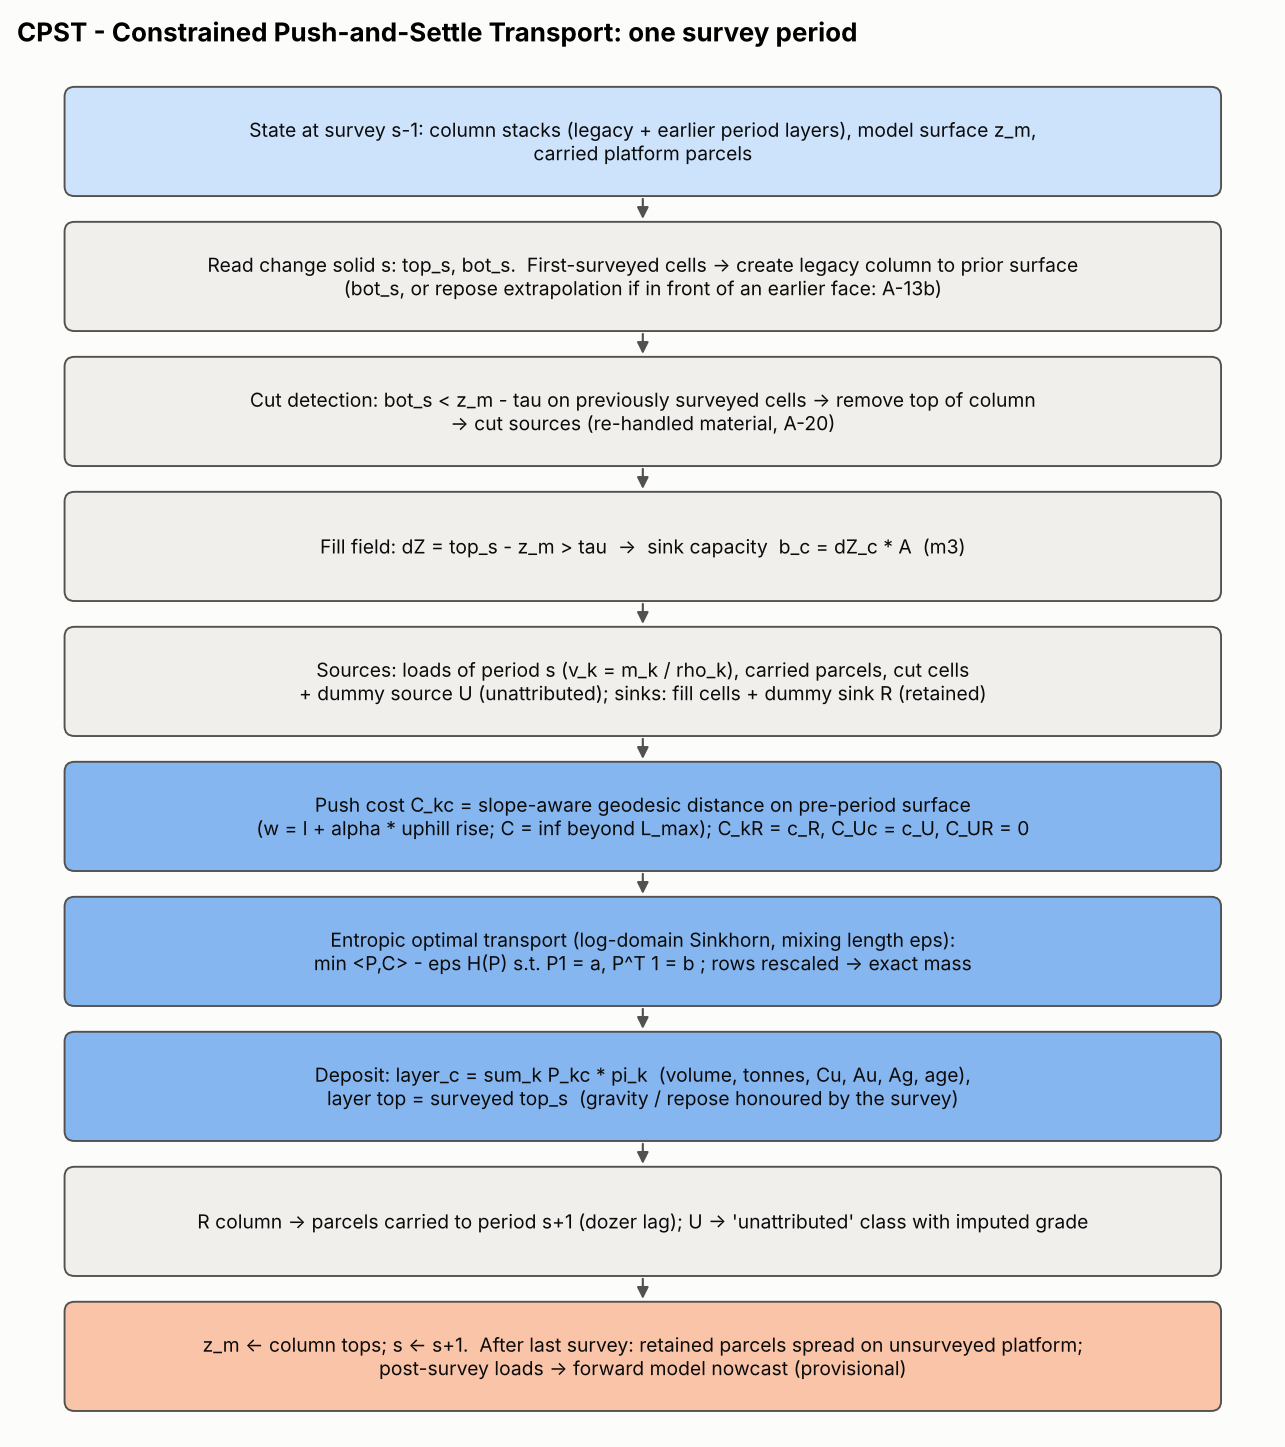
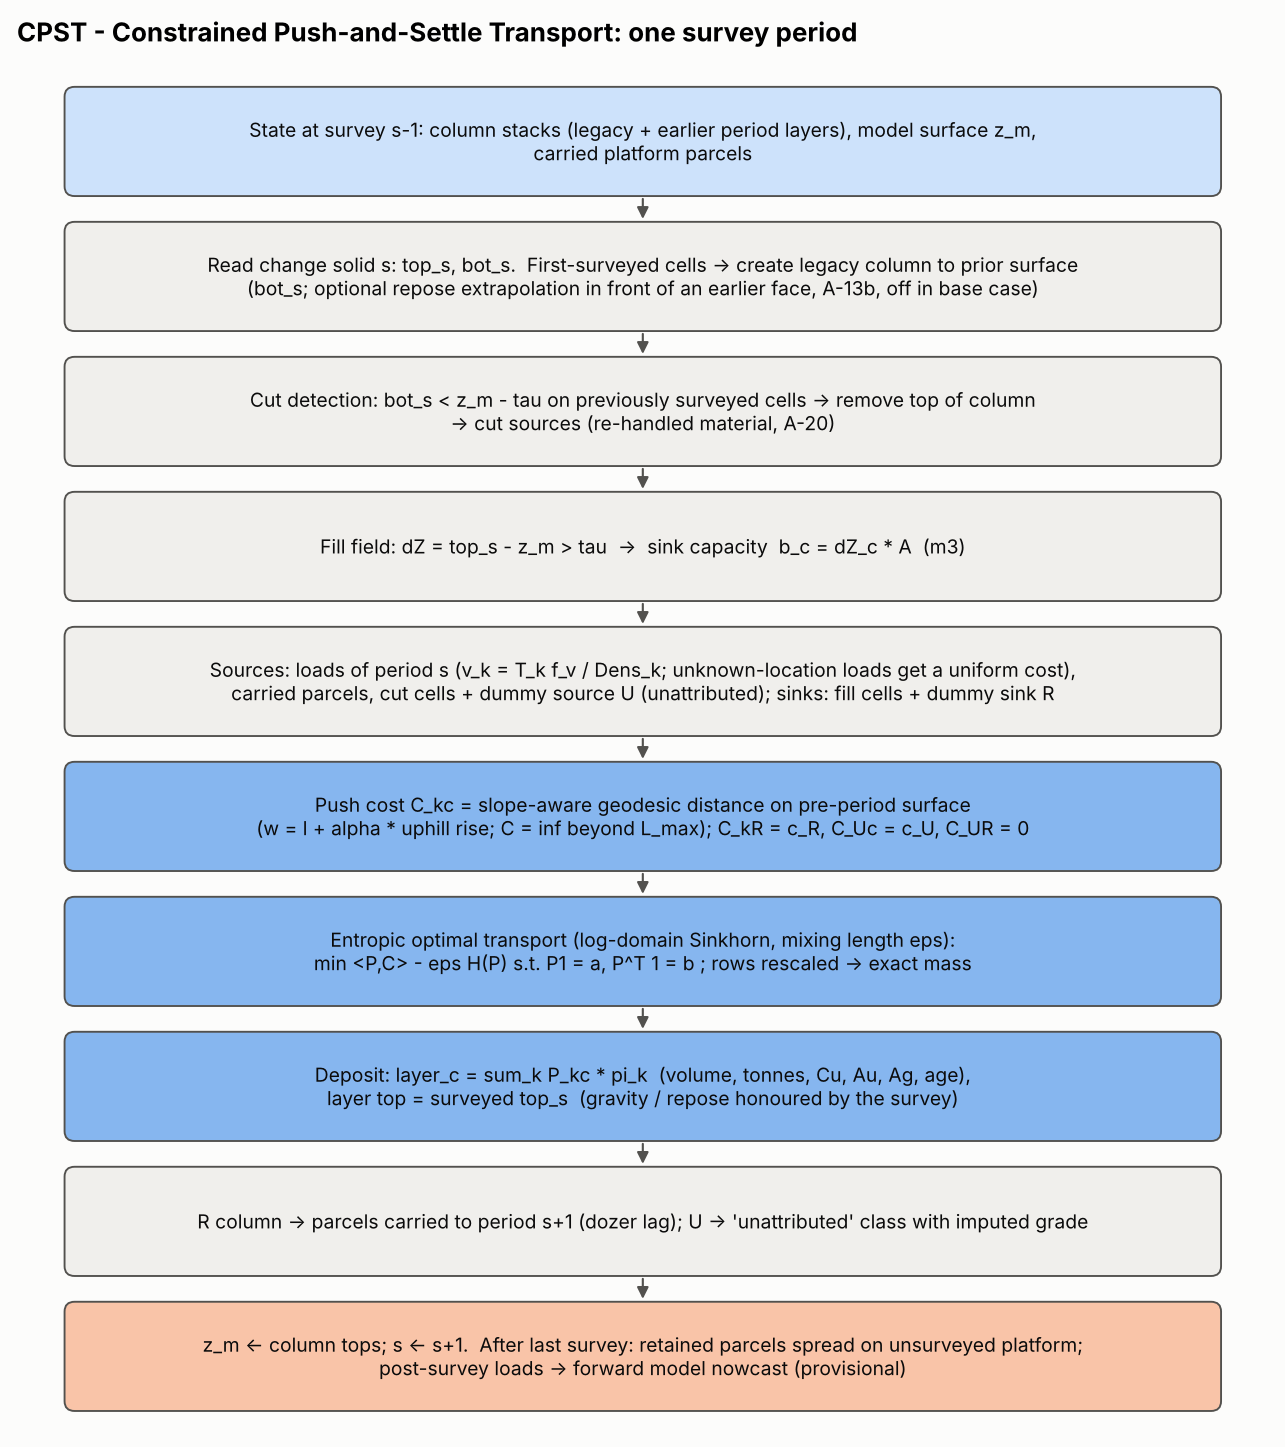
Survey-solid panel titles, daily-figure title and workflow/algorithm diagrams updated for v2.0
Claude-Session: https://claude.ai/code/session_01RcNCmFRcMyefnZh8wfeyRt

Changed region(s): [[0.1868, 0.4354, 0.8093, 0.4976], [0.249, 0.1866, 0.8093, 0.2177], [0.1868, 0.1866, 0.2179, 0.2177]]

diff --git a/tools/make_diagrams.py b/tools/make_diagrams.py
@@ -35,12 +35,12 @@ def workflow():
     box(ax, 1.6, 6.7, 2.6, 0.7, "FMS records (*.csv)\nnew files -> data/inbox", "data")
     box(ax, 1.6, 5.7, 2.6, 0.7, "Survey change solids (*.dxf)\nnew files -> data/inbox", "data")
     box(ax, 1.6, 4.6, 2.6, 0.8, "config/project.yaml\nmanual_interventions.csv\n(assumptions A-xx)", "dec")
-    box(ax, 4.7, 6.2, 2.6, 0.9, "1-2 IMPORT\nscan sources, SHA-256 registry,\nstandardise, rasterise (cache)", "proc")
-    box(ax, 4.7, 4.9, 2.6, 0.9, "3 QA/QC\n14 FMS flags, survey checks,\ncoverage, alignment", "proc")
-    box(ax, 4.7, 3.6, 2.6, 0.9, "4 PERIODS\nsurvey times, gap detection,\nloads -> periods", "proc")
+    box(ax, 4.7, 6.2, 2.6, 0.9, "1-2 IMPORT\nhashed raw store + ingest log,\ninterventions, rasterise (cache)", "proc")
+    box(ax, 4.7, 4.9, 2.6, 0.9, "3 QA/QC\n40-rule catalogue (record,\nsurvey file, dataset)", "proc")
+    box(ax, 4.7, 3.6, 2.6, 0.9, "4 INTERVALS + VOLUME\ncut-off scan (D+1 07:00), loads ->\nintervals, f_v calibration + hold-out", "proc")
     box(ax, 4.7, 2.2, 2.6, 1.1, "5 MATERIAL MOVEMENT (CPST)\ncuts, push cost, partial OT,\ndeposit layers, carry-over", "core")
     box(ax, 8.0, 6.2, 2.7, 0.9, "6-7 BLOCK MODEL\n5x5x2 m, tonnes, Cu, Au, Ag,\nmetal, class, provenance", "core")
-    box(ax, 8.0, 4.9, 2.7, 0.9, "8 UNCERTAINTY\nMonte Carlo (60) + tornado;\nP10/P50/P90, CV, confidence", "proc")
+    box(ax, 8.0, 4.9, 2.7, 0.9, "8 UNCERTAINTY\nMonte Carlo (60), tornado,\nvolume-gap scenarios", "proc")
     box(ax, 8.0, 3.6, 2.7, 0.9, "9 VALIDATION\nmass/metal balance, geometry,\nforward test, twin, robustness", "proc")
     box(ax, 8.0, 2.2, 2.7, 1.0, "10 OUTPUTS\nCSV / VTK / ASC exports,\nfigures, report tables", "out")
     box(ax, 8.0, 0.8, 2.7, 0.9, "11 AUDIT\nrun manifest, config hash, versions,\nhistory + change report", "out")
@@ -63,10 +63,10 @@ def algorithm():
     x = 5
     steps = [
         (10.5, "State at survey s-1: column stacks (legacy + earlier period layers), model surface z_m,\ncarried platform parcels", "data"),
-        (9.4, "Read change solid s: top_s, bot_s.  First-surveyed cells -> create legacy column to prior surface\n(bot_s, or repose extrapolation if in front of an earlier face: A-13b)", "proc"),
+        (9.4, "Read change solid s: top_s, bot_s.  First-surveyed cells -> create legacy column to prior surface\n(bot_s; optional repose extrapolation in front of an earlier face, A-13b, off in base case)", "proc"),
         (8.3, "Cut detection: bot_s < z_m - tau on previously surveyed cells -> remove top of column\n-> cut sources (re-handled material, A-20)", "proc"),
         (7.2, "Fill field: dZ = top_s - z_m > tau  ->  sink capacity  b_c = dZ_c * A  (m3)", "proc"),
-        (6.1, "Sources: loads of period s (v_k = m_k / rho_k), carried parcels, cut cells\n+ dummy source U (unattributed); sinks: fill cells + dummy sink R (retained)", "proc"),
+        (6.1, "Sources: loads of period s (v_k = T_k f_v / Dens_k; unknown-location loads get a uniform cost),\ncarried parcels, cut cells + dummy source U (unattributed); sinks: fill cells + dummy sink R", "proc"),
         (5.0, "Push cost C_kc = slope-aware geodesic distance on pre-period surface\n(w = l + alpha * uphill rise; C = inf beyond L_max); C_kR = c_R, C_Uc = c_U, C_UR = 0", "core"),
         (3.9, "Entropic optimal transport (log-domain Sinkhorn, mixing length eps):\nmin <P,C> - eps H(P) s.t. P1 = a, P^T 1 = b ; rows rescaled -> exact mass", "core"),
         (2.8, "Deposit: layer_c = sum_k P_kc * pi_k  (volume, tonnes, Cu, Au, Ag, age),\nlayer top = surveyed top_s  (gravity / repose honoured by the survey)", "core"),

diff --git a/spbm/qaqc.py b/spbm/qaqc.py
@@ -284,7 +284,7 @@ def _figures(ds, cfg, f, daily, sq, base, allsl, out):
         if st == "SURVEY CHANGE, NO FMS":
             a1.axvspan(k - 0.5, k + 0.5, color=pl.CAT[3], alpha=0.18, lw=0)
     a1.set_ylabel("FMS tonnes (kt)")
-    a1.set_title("FMS tonnage per production day (D 07:00 to D+1 07:00; shaded = survey change, no FMS record)", loc="left")
+    a1.set_title("FMS tonnage per production day (D 07:00 to D+1 07:00; shaded = survey change but no FMS record)", loc="left")
     vol = []
     for d in daily.index:
         v = sq.loc[pd.to_datetime(sq["nominal_date"]) == d, "volume_m3"]
@@ -339,7 +339,7 @@ def _figures(ds, cfg, f, daily, sq, base, allsl, out):
     fig, axs = plt.subplots(int(np.ceil(n / ncol)), ncol, figsize=(17, 3.6 * np.ceil(n / ncol)))
     for ax, s in zip(axs.flat, ds.surveys):
         im = pl.raster(ax, np.where(s.mask, s.thickness, np.nan), g, vmin=0, vmax=6)
-        pl.plan_axes(ax, g, f"{s.file}\nsurvey {s.label} (interval ends {s.datetime:%m-%d %H:%M})", ticks=False)
+        pl.plan_axes(ax, g, f"{s.file}\nsurvey {s.label}", ticks=False)
         ax.set_xticks([]); ax.set_yticks([])
     for ax in list(axs.flat)[n:]:
         ax.axis("off")

diff --git a/tools/templates/D6_Final_Engineering_Report.template.md b/tools/templates/D6_Final_Engineering_Report.template.md
@@ -337,8 +337,8 @@ Sixty Monte Carlo realisations jointly sampled the following (D3, Section 7):
 
 **Interpretation.**
 
-* **Record-period tonnage** is driven by the payload factor and the volume factor (scatter plot above). Moving the survey cut-off to 29 or 32 h changes record-period tonnes by {{CUT_SENS_T}}, mostly through the recalibrated f_v. It still moves block grades by up to {{CUT_SENS_CU}}% Cu on average, because loads dumped within an hour or two of the cut-off change interval.
-* **Whole-pile tonnage** is driven by the in-pile density applied to the pre-record core, which follows the volume factor. The A-13b switch moves about {{S2_SHIFT}} kt from the core to the unattributed class.
+* **Record-period tonnage** is driven by the payload factor, the volume factor (scatter plot above) and the A-13b switch. Moving the survey cut-off to 29 or 32 h changes record-period tonnes by {{CUT_SENS_T}}, mostly through the recalibrated f_v. It still moves block grades by up to {{CUT_SENS_CU}}% Cu on average, because loads dumped within an hour or two of the cut-off change interval.
+* **Whole-pile tonnage** is driven by the payload and volume factors, because they set the in-pile density that converts the pre-record core's volume into tonnes. The A-13b switch moves about {{S2_SHIFT}} kt from the core to the unattributed class.
 * **Spatial grade field.** The survey cut-off, the movement parameters, the grid and the A-13b switch drive the grade field of the FMS-tracked material (mean absolute block Cu change in the tornado). The Monte Carlo block Cu CV for FMS-tracked blocks has a median of {{BLK_CV_P50}} (P90 {{BLK_CV_P90}}).
 * **What the Monte Carlo cannot quantify.** The pre-record core grade is an assumption, not a measurement. For blocks with less than 50% FMS-tracked material we therefore report a *prior* range: the load-scale P10-P90 of all FMS loads, {{PRIOR_CU}} % Cu. We do not report Monte Carlo precision for these blocks, because it would be false.
 
